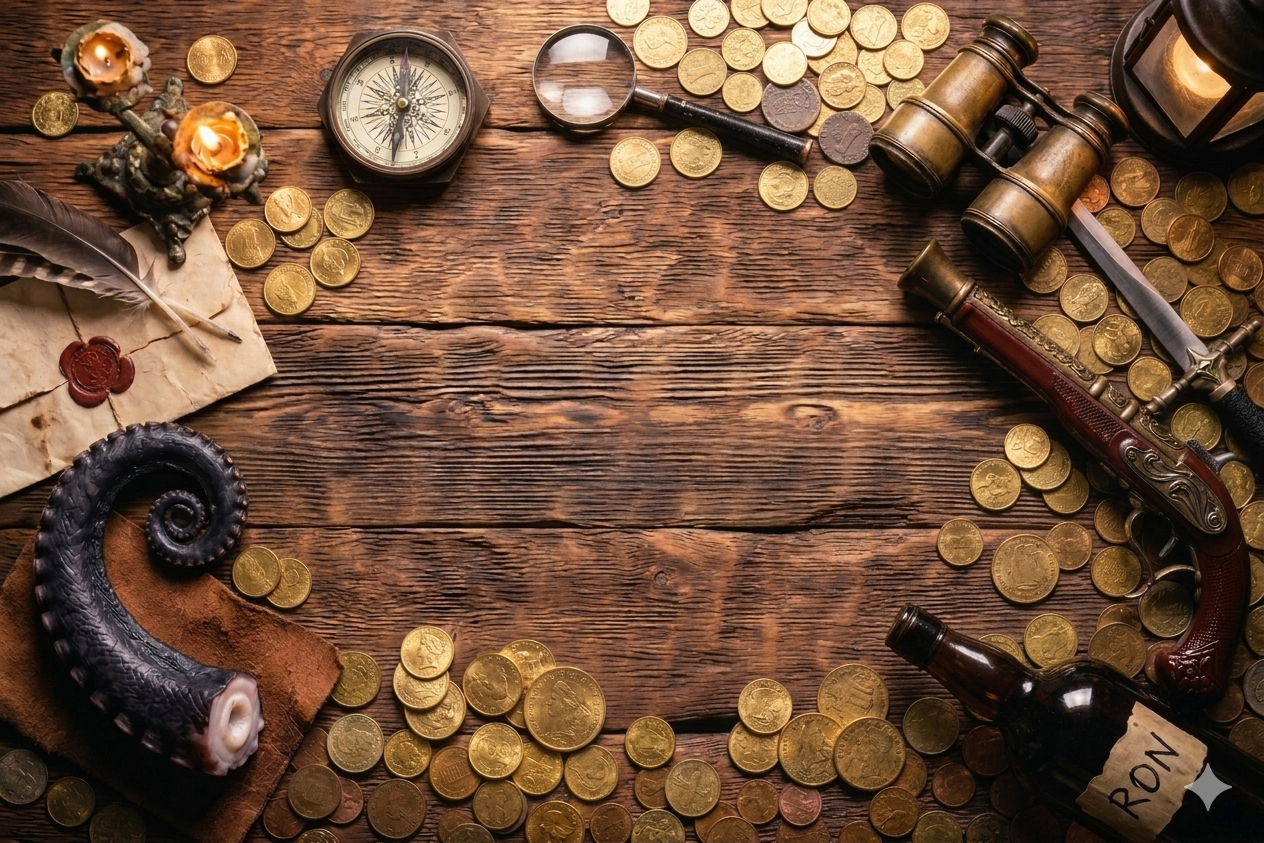
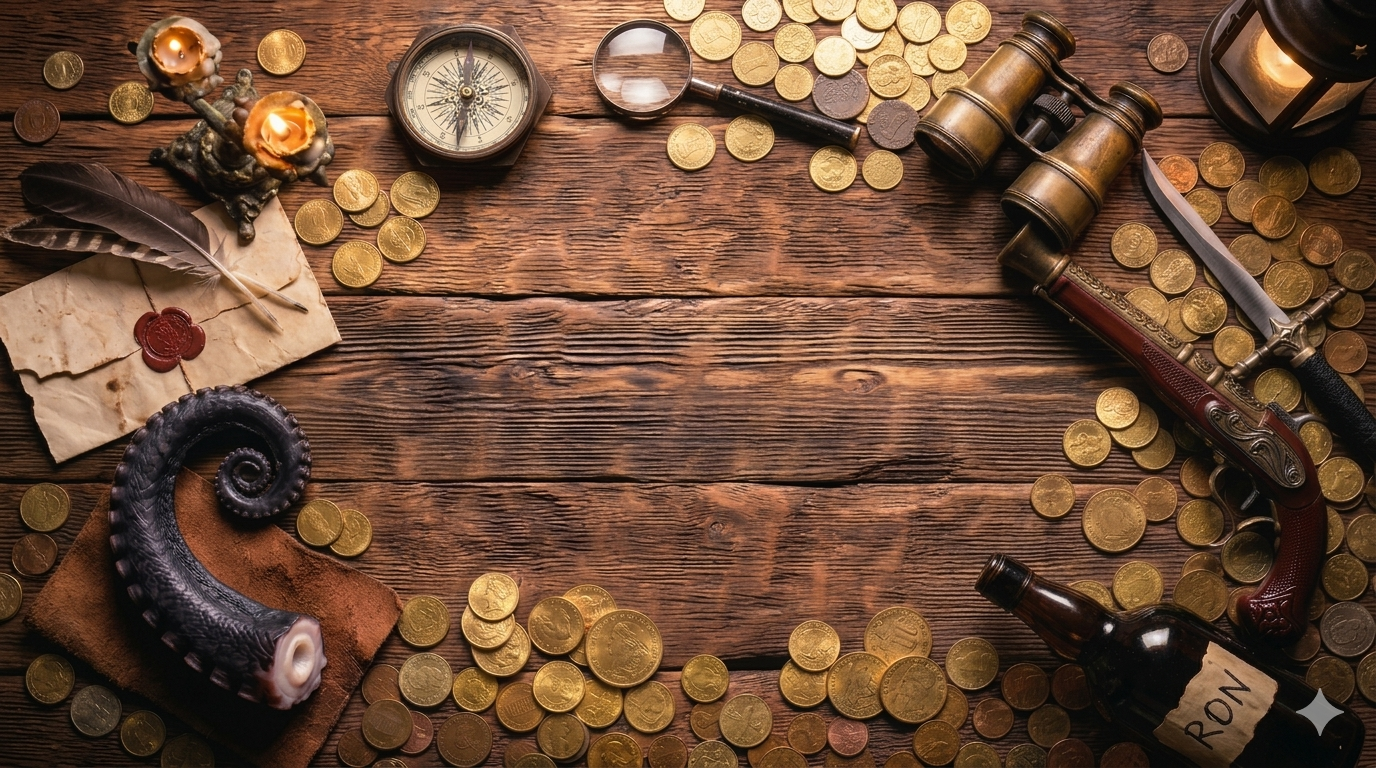
Cambios en la sala de espera - 2

diff --git a/cliente/src/vistas/Tablero.jsx b/cliente/src/vistas/Tablero.jsx
@@ -81,7 +81,7 @@ export default function Tablero() {
         width: '100%', height: '100%',
         backgroundImage: "url('/sala-espera/fondo.png')",
         backgroundSize: 'cover',
-        backgroundPosition: 'center',
+        backgroundPosition: 'center center',
         display: 'flex', flexDirection: 'column',
         overflow: 'hidden', position: 'relative',
       }}>
@@ -90,8 +90,8 @@ export default function Tablero() {
         <div style={{
           display: 'flex', alignItems: 'center', justifyContent: 'space-between',
           padding: '12px 32px', flexShrink: 0, zIndex: 10,
-          background: 'rgba(6,3,1,0.55)', backdropFilter: 'blur(6px)',
-          borderBottom: '1px solid rgba(80,40,10,0.35)',
+          background: 'rgba(6,3,1,0.50)', backdropFilter: 'blur(6px)',
+          borderBottom: '1px solid rgba(80,40,10,0.3)',
         }}>
           <div style={{ display: 'flex', alignItems: 'center', gap: '12px' }}>
             <span style={{ fontSize: '24px' }}>🐙</span>
@@ -108,79 +108,114 @@ export default function Tablero() {
             <div style={{ width: '7px', height: '7px', borderRadius: '50%', background: conectado ? '#6abf6a' : '#cc4444' }} />
             <button onClick={() => navigate('/')} style={{
               background: 'none', border: '1px solid rgba(200,160,80,0.2)',
-              color: 'rgba(220,185,110,0.4)', padding: '5px 14px',
+              color: 'rgba(220,185,110,0.45)', padding: '5px 14px',
               borderRadius: '6px', cursor: 'pointer',
               fontFamily: 'var(--fuente-subtitulo)', fontSize: '10px', letterSpacing: '1px',
             }}>Salir</button>
           </div>
         </div>
 
-        {/* ── Mesa: código tallado + pergamino centrado ── */}
+        {/* ── Mesa ── */}
         <div style={{
-          flex: 1, display: 'flex', flexDirection: 'column',
-          alignItems: 'center', justifyContent: 'center',
-          padding: '10px 24px 14px', gap: '10px',
+          flex: 1, display: 'grid',
+          /* izquierda (código) | centro (pergamino) | derecha (equilibrio visual) */
+          gridTemplateColumns: '1fr auto 1fr',
+          alignItems: 'center',
+          padding: '16px 48px 20px',
           overflow: 'hidden',
+          gap: '0',
         }}>
 
-          {/* Código tallado en la madera */}
-          <div style={{ textAlign: 'center', flexShrink: 0 }}>
+          {/* ── Izquierda: código de sala ── */}
+          <div style={{ display: 'flex', flexDirection: 'column', alignItems: 'center', justifyContent: 'center' }}>
             <p style={{
               fontFamily: 'var(--fuente-subtitulo)',
-              fontSize: 'clamp(7px,0.7vw,9px)',
+              fontSize: 'clamp(8px,0.75vw,10px)',
               letterSpacing: '4px', textTransform: 'uppercase',
-              /* texto muy oscuro, casi fundido con la madera */
-              color: 'rgba(14,7,2,0.55)',
-              textShadow: '0 1px 1px rgba(180,120,50,0.2)',
-              marginBottom: '2px',
-            }}>Código de sala</p>
+              color: '#111',
+              marginBottom: '8px',
+            }}>
+              Código de sala
+            </p>
             <div style={{
               fontFamily: 'var(--fuente-titulo)',
-              fontSize: 'clamp(32px,3.8vw,56px)',
-              letterSpacing: '0.38em',
-              /* efecto tallado: color oscuro + sombra cálida hacia abajo (surco) */
-              color: 'rgba(13,6,1,0.72)',
-              textShadow: `
-                0  1px 0   rgba(185,130,55,0.30),
-                0  2px 4px rgba(0,0,0,0.55),
-                0 -1px 0   rgba(0,0,0,0.20)
-              `,
+              fontSize: 'clamp(38px,4.5vw,68px)',
+              letterSpacing: '0.3em',
+              color: '#0d0d0d',
+              textShadow: '0 2px 4px rgba(0,0,0,0.25)',
             }}>
               {codigo}
             </div>
+
+            {/* Botón iniciar + aviso también aquí, accesible */}
+            <div style={{ marginTop: '28px', textAlign: 'center' }}>
+              {numJugadores < 5 && (
+                <p style={{
+                  fontFamily: 'var(--fuente-pirata)',
+                  fontSize: 'clamp(9px,0.85vw,12px)',
+                  color: '#111',
+                  marginBottom: '10px',
+                }}>
+                  Faltan {5 - numJugadores} jugador{5 - numJugadores !== 1 ? 'es' : ''} para iniciar
+                </p>
+              )}
+              <button
+                onClick={iniciarPartida}
+                disabled={numJugadores < 5}
+                style={{
+                  background: numJugadores >= 5
+                    ? 'linear-gradient(135deg,rgba(80,45,6,0.90),rgba(120,75,12,0.85))'
+                    : 'rgba(30,16,3,0.30)',
+                  border: `1px solid ${numJugadores >= 5 ? 'rgba(160,105,30,0.55)' : 'rgba(60,35,6,0.2)'}`,
+                  color: numJugadores >= 5 ? 'rgba(240,205,130,0.95)' : 'rgba(80,50,12,0.4)',
+                  padding: 'clamp(9px,1vh,13px) clamp(20px,2.2vw,32px)',
+                  fontFamily: 'var(--fuente-subtitulo)',
+                  fontSize: 'clamp(10px,0.95vw,13px)',
+                  letterSpacing: '2px', textTransform: 'uppercase',
+                  borderRadius: '6px',
+                  cursor: numJugadores >= 5 ? 'pointer' : 'not-allowed',
+                  backdropFilter: 'blur(4px)',
+                  transition: 'all 0.3s ease',
+                  textShadow: numJugadores >= 5 ? '0 1px 3px rgba(0,0,0,0.55)' : 'none',
+                }}>
+                🎮 Iniciar Partida
+              </button>
+              {error && <p style={{ color: '#993322', fontSize: '11px', marginTop: '8px', fontFamily: 'var(--fuente-subtitulo)' }}>{error}</p>}
+            </div>
           </div>
 
-          {/* Pergamino centrado */}
-          <div style={{ position: 'relative', width: 'min(400px,34vw)', flexShrink: 1, minHeight: 0 }}>
+          {/* ── Centro: pergamino ── */}
+          <div style={{ position: 'relative', width: 'min(480px, 38vw)', flexShrink: 0 }}>
 
-            {/* Imagen del pergamino — fija las proporciones */}
+            {/* Imagen del pergamino */}
             <img
               src="/sala-espera/pergamino.png"
               alt=""
               style={{ display: 'block', width: '100%', height: 'auto', userSelect: 'none', pointerEvents: 'none' }}
             />
 
-            {/* Contenido superpuesto */}
+            {/* Contenido sobre el pergamino */}
             <div style={{
               position: 'absolute', inset: 0,
               display: 'flex', flexDirection: 'column',
-              padding: '9% 10% 8%',
+              /* padding generoso para no pisar los bordes quemados del pergamino */
+              padding: '12% 14% 10%',
             }}>
 
-              {/* Cabecera tripulación */}
+              {/* Cabecera */}
               <div style={{
                 display: 'flex', alignItems: 'baseline',
                 justifyContent: 'space-between', flexShrink: 0,
-                marginBottom: '3%',
+                marginBottom: '4%',
               }}>
                 <h2 style={{
                   fontFamily: 'var(--fuente-pirata)',
-                  fontSize: 'clamp(13px,1.4vw,18px)',
+                  fontSize: 'clamp(14px,1.5vw,20px)',
                   color: '#1a0c04',
                 }}>Tripulación</h2>
                 <span style={{
                   fontFamily: 'var(--fuente-subtitulo)',
-                  fontSize: 'clamp(8px,0.8vw,11px)',
+                  fontSize: 'clamp(8px,0.82vw,11px)',
                   color: numJugadores >= 5 ? '#2e5e2e' : '#7a4010',
                   letterSpacing: '1px',
                 }}>{numJugadores}/11</span>
@@ -189,26 +224,26 @@ export default function Tablero() {
               {/* Lista de jugadores */}
               <div style={{
                 flex: 1, overflowY: 'auto', display: 'flex',
-                flexDirection: 'column', gap: '1.5%', minHeight: 0,
+                flexDirection: 'column', gap: '2%', minHeight: 0,
               }}>
                 {jugadores.length === 0 ? (
                   <p style={{
                     fontFamily: 'var(--fuente-pirata)',
                     color: 'rgba(40,20,5,0.35)',
                     fontSize: 'clamp(9px,0.9vw,12px)',
-                    textAlign: 'center', paddingTop: '10%',
+                    textAlign: 'center', paddingTop: '12%',
                   }}>
                     Esperando tripulantes...
                   </p>
                 ) : jugadores.map((j, i) => (
                   <div key={j.id || i} style={{
-                    display: 'flex', alignItems: 'center', gap: '5%',
-                    padding: '1.2% 3%', borderRadius: '3px',
+                    display: 'flex', alignItems: 'center', gap: '4%',
+                    padding: '1.5% 2%', borderRadius: '3px',
                     background: j.id === sala.hostId ? 'rgba(80,40,5,0.1)' : 'rgba(40,20,5,0.04)',
                     border: `1px solid ${j.id === sala.hostId ? 'rgba(120,70,10,0.22)' : 'rgba(80,40,5,0.07)'}`,
                     animation: `aparecer 0.35s ease ${i * 0.05}s both`,
                   }}>
-                    <span style={{ fontSize: 'clamp(9px,0.9vw,12px)', flexShrink: 0 }}>
+                    <span style={{ fontSize: 'clamp(9px,0.85vw,11px)', flexShrink: 0 }}>
                       {j.id === sala.hostId ? '⚓' : '🏴'}
                     </span>
                     <span style={{
@@ -226,35 +261,29 @@ export default function Tablero() {
                     {j.id !== sala.hostId && (
                       <button onClick={() => cambiarHost(j.id)} style={{
                         background: 'rgba(80,40,5,0.1)', border: '1px solid rgba(100,55,10,0.2)',
-                        color: 'rgba(80,45,10,0.6)', borderRadius: '3px',
+                        color: 'rgba(80,45,10,0.65)', borderRadius: '3px',
                         padding: '1px 5px', fontSize: 'clamp(7px,0.65vw,9px)',
                         fontFamily: 'var(--fuente-subtitulo)', cursor: 'pointer',
-                        letterSpacing: '0.5px', flexShrink: 0,
+                        flexShrink: 0,
                       }}>⚓</button>
                     )}
                   </div>
                 ))}
               </div>
 
-              {/* QR + URL — anclados al fondo del pergamino */}
-              <div style={{ flexShrink: 0, textAlign: 'center', marginTop: '4%' }}>
-                <div style={{
-                  display: 'inline-block', padding: '6px',
-                  background: 'rgba(240,220,180,0.85)', borderRadius: '6px',
-                  boxShadow: '0 2px 6px rgba(0,0,0,0.18)',
-                }}>
-                  <QRCodeSVG
-                    value={urlUnirse}
-                    size={Math.round(Math.min(window.innerWidth * 0.34 * 0.70, 400 * 0.70))}
-                    level="M"
-                    bgColor="transparent"
-                    fgColor="#1a0c04"
-                  />
-                </div>
+              {/* QR centrado en la parte inferior — sin fondo, solo los cuadrados */}
+              <div style={{ flexShrink: 0, textAlign: 'center', marginTop: '5%' }}>
+                <QRCodeSVG
+                  value={urlUnirse}
+                  size={100}
+                  level="M"
+                  bgColor="transparent"
+                  fgColor="#1a0c04"
+                />
                 <p style={{
                   fontFamily: 'var(--fuente-subtitulo)',
-                  fontSize: 'clamp(5px,0.55vw,7px)',
-                  color: 'rgba(40,20,5,0.4)',
+                  fontSize: 'clamp(5px,0.52vw,7px)',
+                  color: 'rgba(40,20,5,0.38)',
                   marginTop: '2%', letterSpacing: '0.3px',
                   wordBreak: 'break-all',
                 }}>
@@ -265,42 +294,8 @@ export default function Tablero() {
             </div>
           </div>
 
-          {/* Botón Iniciar — sobre la madera, bajo el pergamino */}
-          <div style={{ flexShrink: 0, textAlign: 'center' }}>
-            {numJugadores < 5 && (
-              <p style={{
-                fontFamily: 'var(--fuente-pirata)',
-                fontSize: 'clamp(9px,0.9vw,12px)',
-                color: 'rgba(14,7,2,0.55)',
-                textShadow: '0 1px 1px rgba(180,120,50,0.2)',
-                marginBottom: '6px',
-              }}>
-                Faltan {5 - numJugadores} jugador{5 - numJugadores !== 1 ? 'es' : ''} para poder iniciar
-              </p>
-            )}
-            <button
-              onClick={iniciarPartida}
-              disabled={numJugadores < 5}
-              style={{
-                background: numJugadores >= 5
-                  ? 'linear-gradient(135deg,rgba(90,50,8,0.88),rgba(130,80,15,0.82))'
-                  : 'rgba(40,22,5,0.35)',
-                border: `1px solid ${numJugadores >= 5 ? 'rgba(170,110,35,0.5)' : 'rgba(70,40,8,0.22)'}`,
-                color: numJugadores >= 5 ? 'rgba(240,205,130,0.95)' : 'rgba(90,55,15,0.4)',
-                padding: 'clamp(8px,1vh,12px) clamp(22px,2.5vw,36px)',
-                fontFamily: 'var(--fuente-subtitulo)',
-                fontSize: 'clamp(10px,1vw,13px)',
-                letterSpacing: '2px', textTransform: 'uppercase',
-                borderRadius: '6px',
-                cursor: numJugadores >= 5 ? 'pointer' : 'not-allowed',
-                backdropFilter: 'blur(4px)',
-                transition: 'all 0.3s ease',
-                textShadow: numJugadores >= 5 ? '0 1px 3px rgba(0,0,0,0.6)' : 'none',
-              }}>
-              🎮 Iniciar Partida
-            </button>
-            {error && <p style={{ color: '#cc6644', fontSize: '11px', marginTop: '6px', fontFamily: 'var(--fuente-subtitulo)' }}>{error}</p>}
-          </div>
+          {/* ── Derecha: vacío (equilibrio visual) ── */}
+          <div />
 
         </div>
       </div>